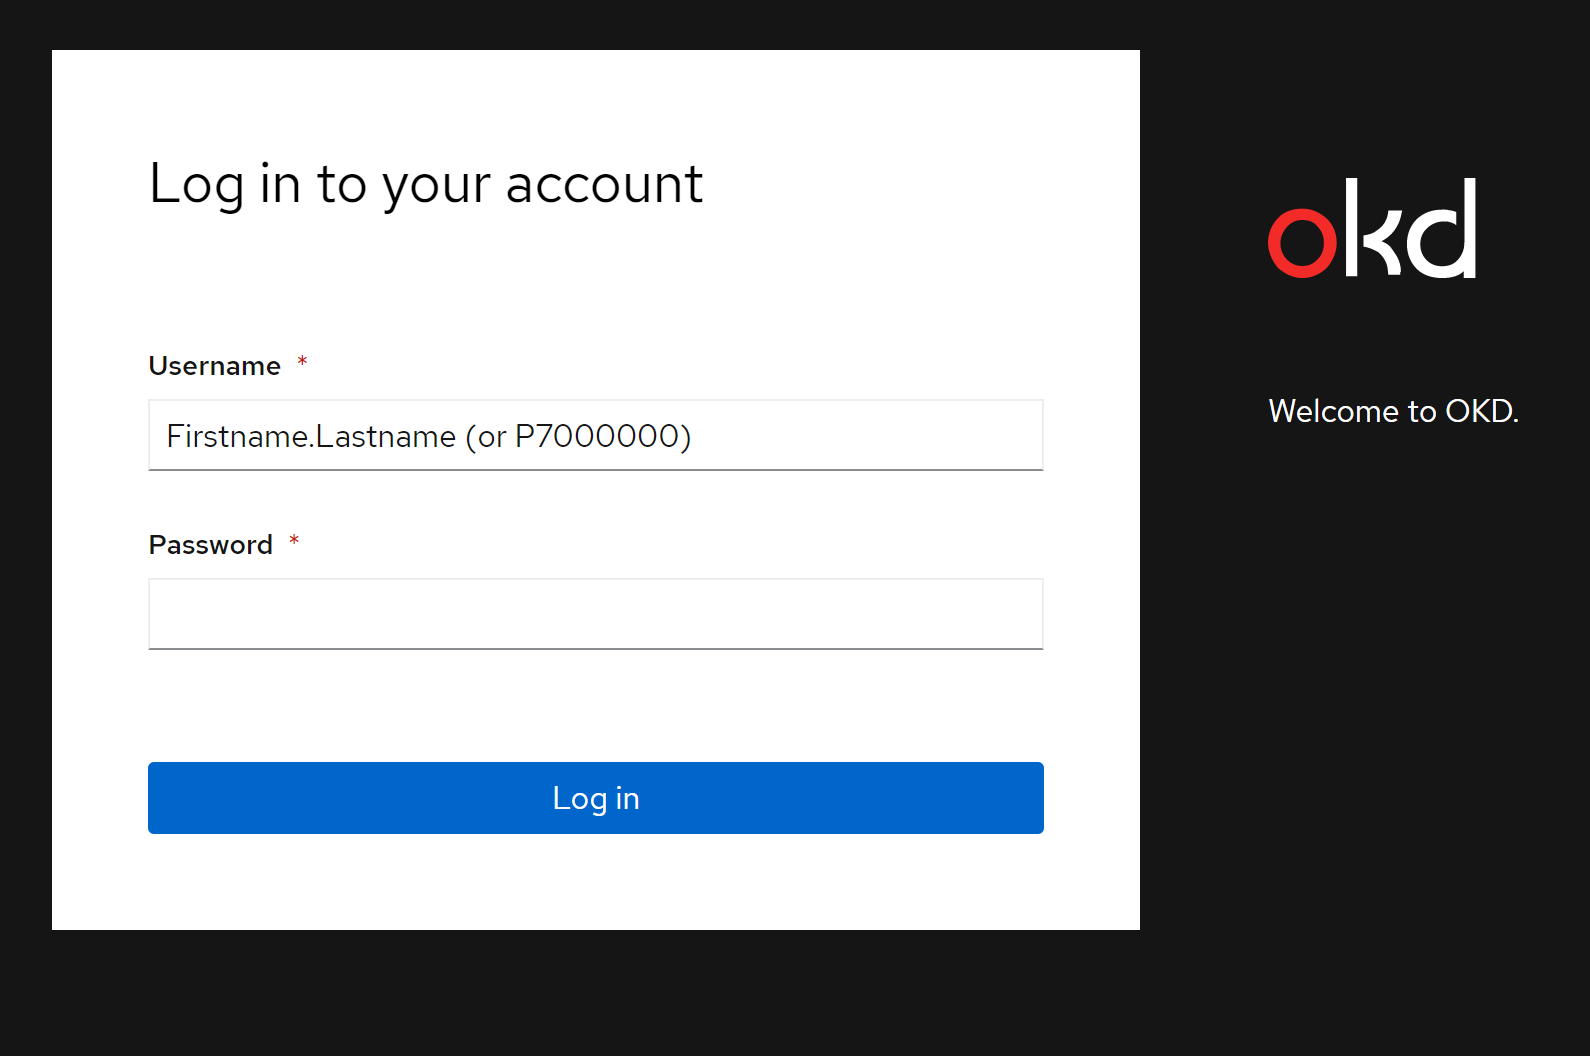
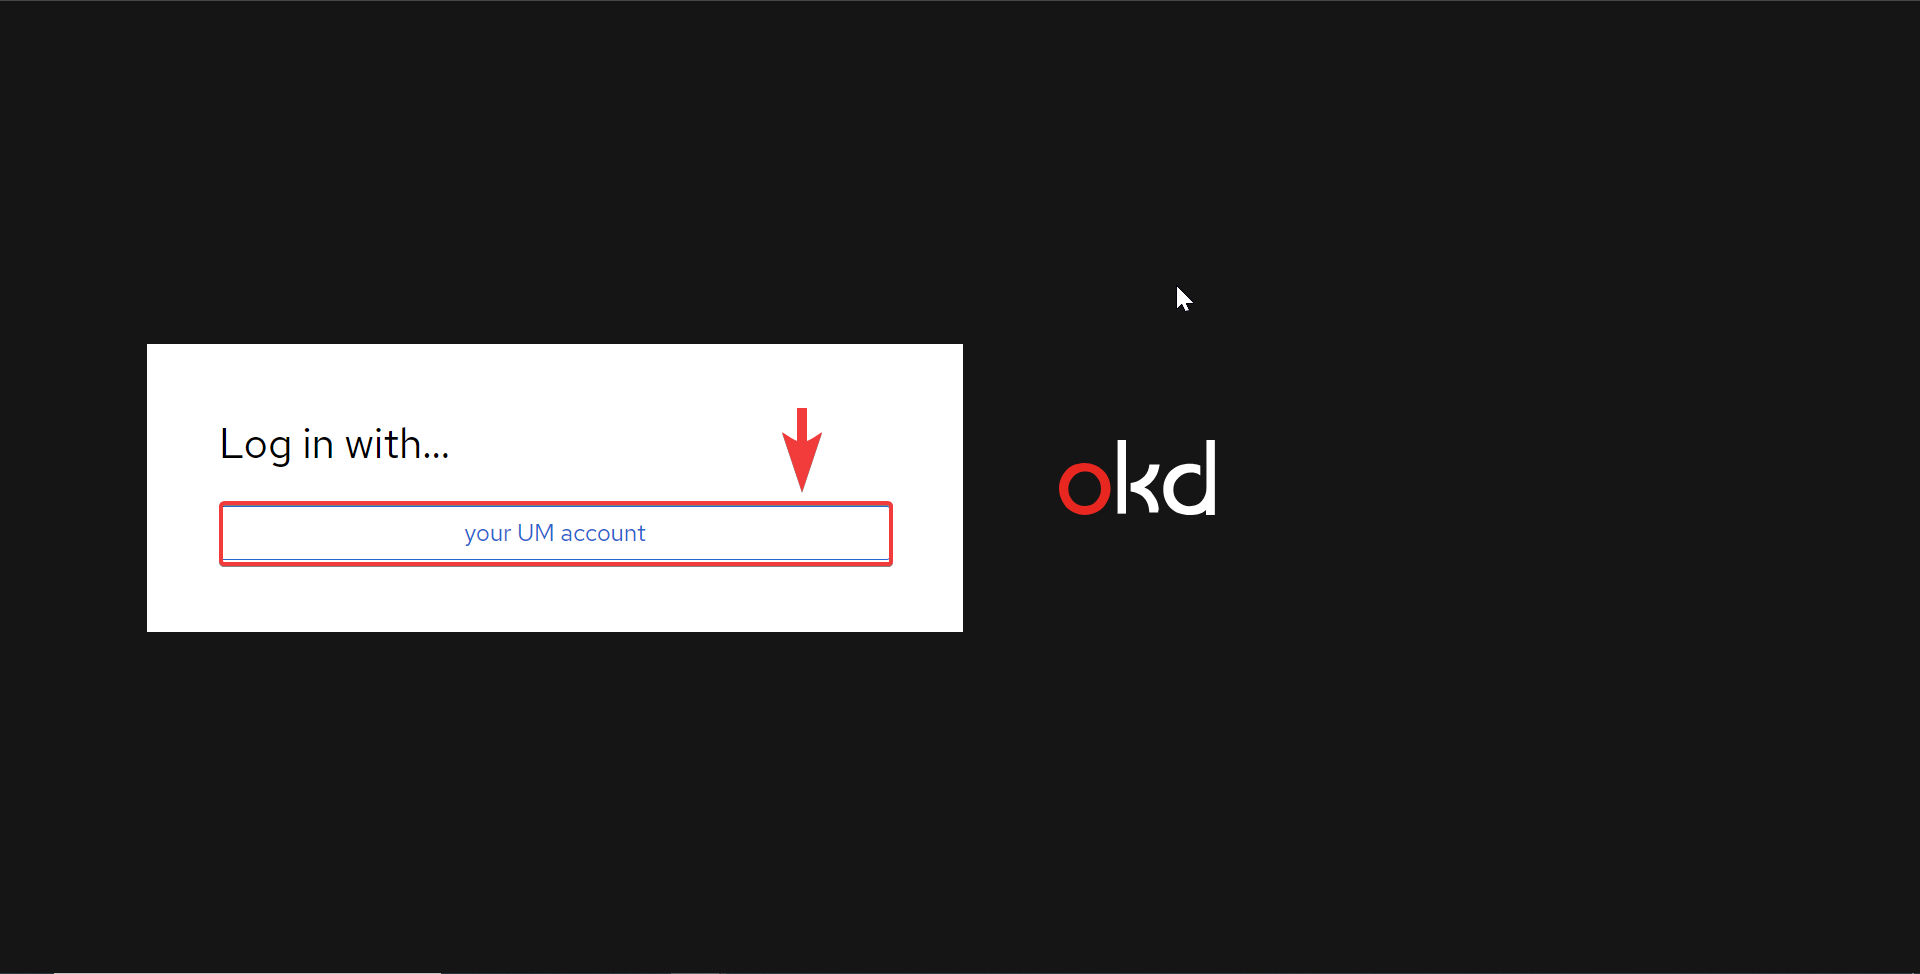
change every occurence of oc login to the new way of copying the token via the web ui

diff --git a/website/docs/access-dsri.md b/website/docs/access-dsri.md
@@ -50,13 +50,11 @@ Use your general UM password.
 
 If you do not have access to the DSRI [contact us](mailto:dsri-support-l@maastrichtuniversity.nl).
 
-You will be able to login at **[https://console-openshift-console.apps.dsri2.unimaas.nl](https://console-openshift-console.apps.dsri2.unimaas.nl)** either using:
-
-* The **prefix of your UM email address** with the first letter capitalized, e.g. `Firstname.Lastname` or `F.Lastname`
-* Or your **employee number** at Maastricht University (a.k.a. P number), e.g. `P7000000`
-* If you are a **student**, it will always be your **student ID** at Maastricht University (a.k.a. your I number), e.g. `I6000000`
+You will be able to login at **[https://console-openshift-console.apps.dsri2.unimaas.nl](https://console-openshift-console.apps.dsri2.unimaas.nl)** using the standard maastricht portal upon clicking the login button:
 
 <img src="/img/screenshot_login_screen.png" alt="Login screen" style={{maxWidth: '100%', maxHeight: '100%'}} />
+
+<img src="/img/screenshot_um_login_screen.png" alt="Login screen" style={{maxWidth: '100%', maxHeight: '100%'}} />
 
 :::info Command line interface
 

diff --git a/website/docs/openshift-install.md b/website/docs/openshift-install.md
@@ -72,13 +72,13 @@ See the [official documentation to install the client](https://docs.okd.io/lates
 
 ## Login in the terminal with `oc`
 
-To use the `oc` Command Line Interface, you will need to authenticate to the [DSRI](https://console-openshift-console.apps.dsri2.unimaas.nl/console) in you terminal (edit it to use your username):
+To use the `oc` Command Line Interface, you will need to authenticate to the [DSRI](https://console-openshift-console.apps.dsri2.unimaas.nl/console) in your terminal:
 
 ```bash
-oc login https://api.dsri2.unimaas.nl:6443 -u Your.Username
+oc login --token=<token>
 ```
 
-Otherwise try to use the token provided by the Web UI:
+The token is provided by the Web UI:
 
 1. Go to the [DSRI web UI](https://console-openshift-console.apps.dsri2.unimaas.nl/console).
 

diff --git a/website/docs/openshift-commands.md b/website/docs/openshift-commands.md
@@ -11,7 +11,7 @@ Here is an overview of common `oc` commands:
 
 | **Command**                      | **Description**                                              |
 | -------------------------------- | ------------------------------------------------------------ |
-| `oc login <host> -u <user>`      | Login to the DSRI OpenShift cluster in your terminal         |
+| `oc login --token=<token>`      | Login to the DSRI OpenShift cluster in your terminal         |
 | `oc get projects`                | List all available projects                                  |
 | `oc project <project> `          | Switch to project                                            |
 | `oc get pods `                   | Get running pods (a pod can run one or multiple containers for your application) |

diff --git a/website/docs/guide-dockerfile-to-openshift.md b/website/docs/guide-dockerfile-to-openshift.md
@@ -13,8 +13,9 @@ git clone git@gitlab.maastrichtuniversity.nl:dsri-examples/dockerfile-to-okd.git
 After cloning you now have a local folder containing a Dockerfile and index.html file. Inspect both files.
 
 Login with the openshift client:
+[Authenticate to the OpenShift cluster](/docs/openshift-install) using `oc login` .
 ```shell
-oc login https://console-openshift-console.apps.dsri2.unimaas.nl
+oc login --token=<token>
 ```
 
 Create a new project if you don't have a project yet you can work with (change myproject to a project name of your choice:
